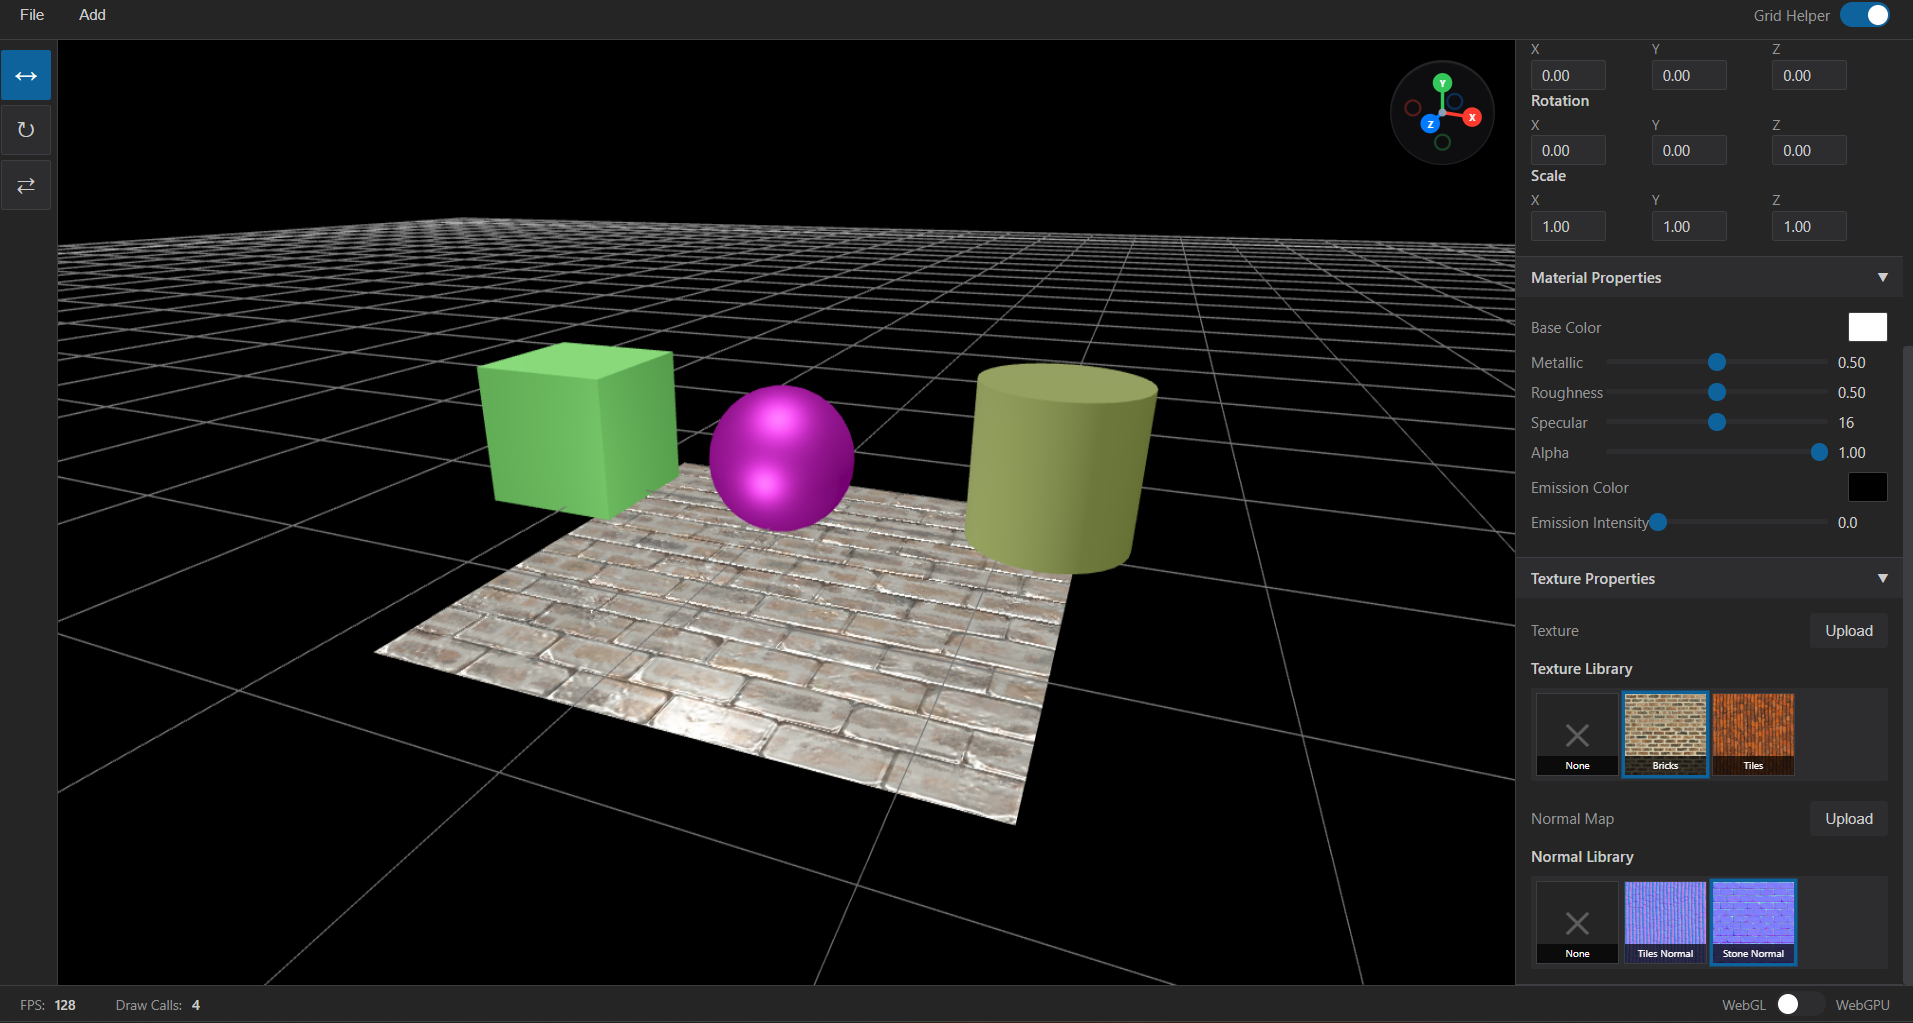
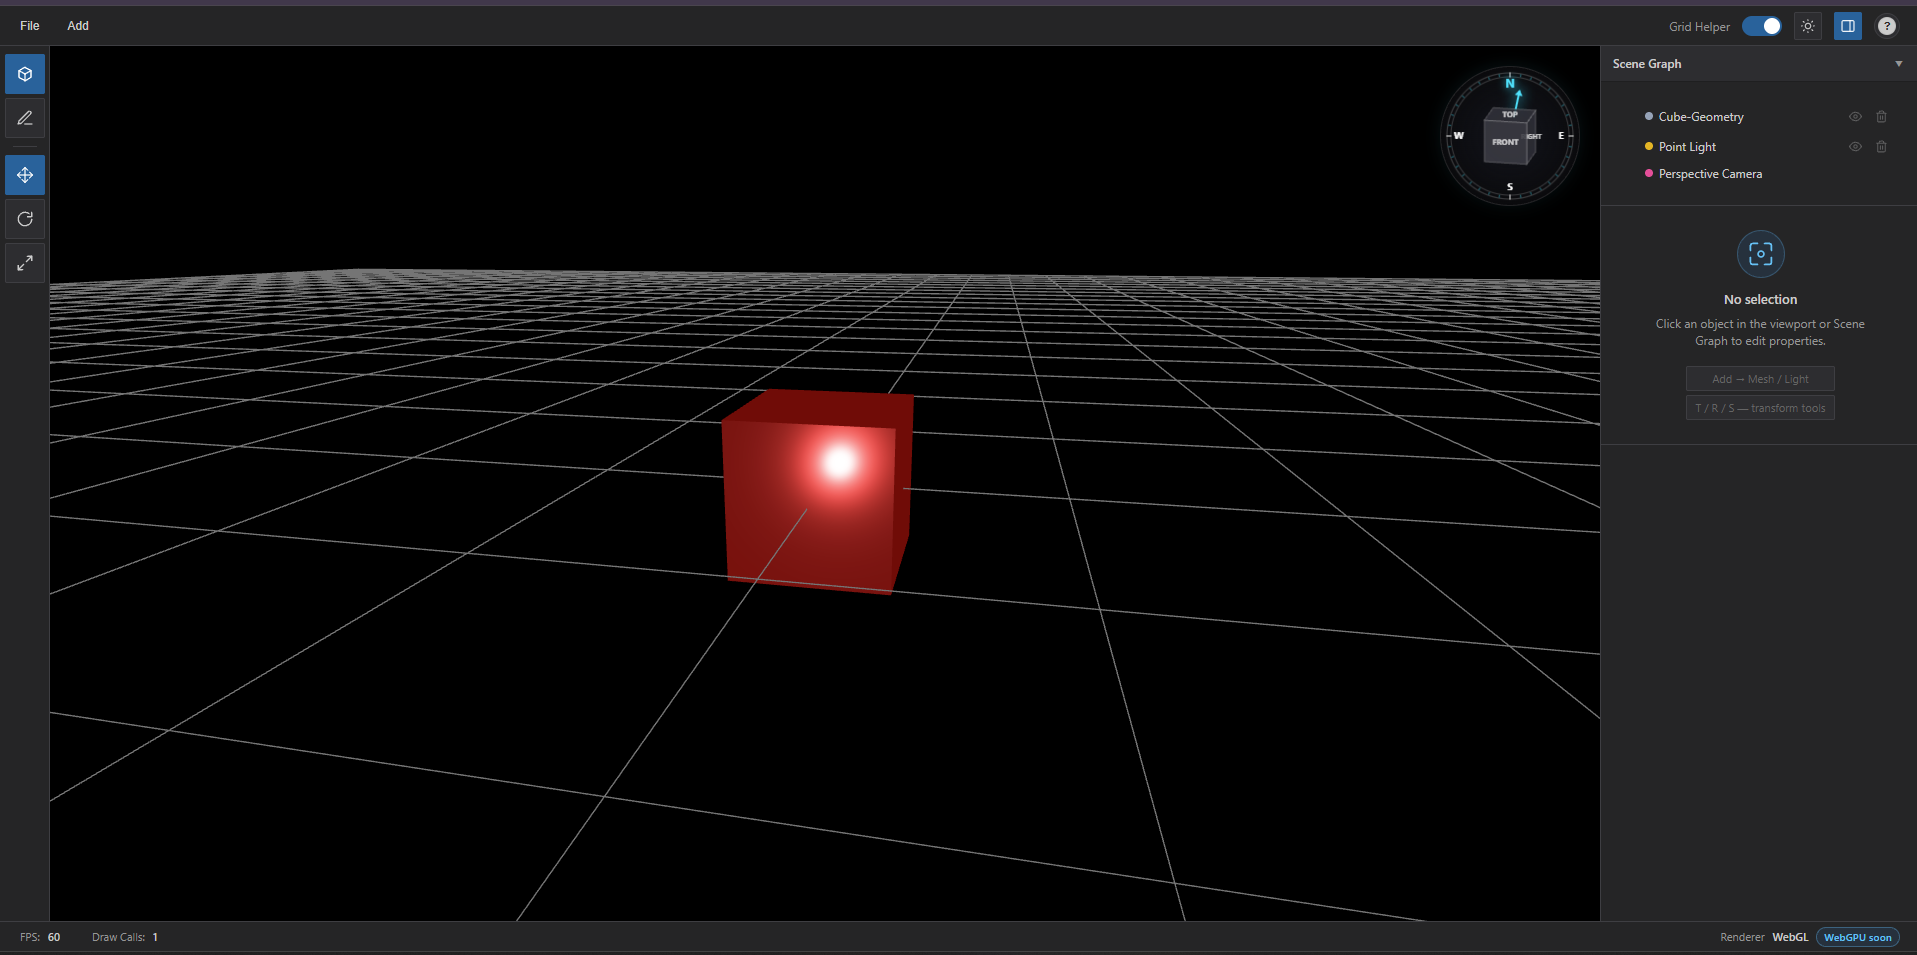
refactor: update README for clarity, enhance IndexedDB scene handling, and improve default light initialization in 3DEditor

diff --git a/engine/CoreUtilities/IndexedDBSceneStorage.ts b/engine/CoreUtilities/IndexedDBSceneStorage.ts
@@ -338,14 +338,16 @@ export class IndexedDBSceneStorage {
   public static async hasSavedScene(): Promise<boolean> {
     try {
       const data = await this.loadScene();
-      return !!(data && data.nodes && data.nodes.length > 0);
+      // Empty scene (nodes: []) is still a valid saved session
+      return !!(data && Array.isArray(data.nodes));
     } catch {
       return false;
     }
   }
 
   /**
-   * Reconstruct scene objects and hierarchy from serialized state
+   * Reconstruct scene objects and hierarchy from serialized state.
+   * Empty `nodes` clears user content and keeps grid — used after delete-all + refresh.
    */
   public static async restoreScene(
     savedData: SerializedScene,
@@ -355,7 +357,7 @@ export class IndexedDBSceneStorage {
     materialFactory: PBRMaterialProperties,
     camera?: CameraController
   ): Promise<void> {
-    if (!savedData || !savedData.nodes || savedData.nodes.length === 0) return;
+    if (!savedData || !Array.isArray(savedData.nodes)) return;
 
     // 1. Clear existing user nodes and lights (keep Grid)
     const gridNodes = (scene.nodes || []).filter((n) => n.type === "Grid-Geometry");

diff --git a/engine/CoreUtilities/SessionPersistenceController.ts b/engine/CoreUtilities/SessionPersistenceController.ts
@@ -68,12 +68,15 @@ export class SessionPersistenceController {
     const { scene, camera, events, createdObjects, gl, material } = this.deps;
     try {
       const saved = await IndexedDBSceneStorage.loadScene();
-      if (!saved || !saved.nodes || saved.nodes.length === 0) {
+      // Any saved record counts (including empty nodes[] after user deleted everything).
+      // Only "no autosave key" should fall through to default starter content.
+      if (!saved || !Array.isArray(saved.nodes)) {
         return false;
       }
 
       console.log(
-        `[IndexedDB] Restoring saved session from ${new Date(saved.timestamp).toLocaleTimeString()}...`
+        `[IndexedDB] Restoring saved session from ${new Date(saved.timestamp).toLocaleTimeString()}...` +
+          (saved.nodes.length === 0 ? " (empty scene)" : "")
       );
       await IndexedDBSceneStorage.restoreScene(
         saved,

diff --git a/Showcase/3DEditor/EditorApplication.ts b/Showcase/3DEditor/EditorApplication.ts
@@ -136,6 +136,7 @@ function addDefaultStarterContent(): void {
   defaultLight.radius = 2.0;
   defaultLight.color = [1, 1, 1];
   defaultLight.intensity = 1.0;
+  defaultLight.updateLocalMatrix();
   scene.add(defaultLight);
 
   lightInstances.set(masterLight.uuid, { light: masterLight, type: "point", index: 0 });
@@ -1284,6 +1285,7 @@ document.getElementById("new-scene-btn")?.addEventListener("click", () => {
     defaultLight.radius = 2.0;
     defaultLight.color = [1, 1, 1];
     defaultLight.intensity = 1.0;
+    defaultLight.updateLocalMatrix();
     scene.add(defaultLight);
 
     // Reset master light to default

diff --git a/README.md b/README.md
@@ -4,68 +4,101 @@
 [![WebGL](https://img.shields.io/badge/WebGL-990000?style=for-the-badge&logo=webgl&logoColor=white)](https://developer.mozilla.org/en-US/docs/Web/API/WebGL_API)
 [![License: ISC](https://img.shields.io/badge/License-ISC-blue.svg?style=for-the-badge)](https://opensource.org/licenses/ISC)
 
- [Badges] 
 ![3D Editor Interface](./images/image.png)
 
-### Highlights
+Browser-based **3D graphics engine** and **visual editor**, built from scratch in **TypeScript** with **raw WebGL** (no Three.js / Babylon).
 
-- Scene Graph
-- Physically Based Rendering (PBR)
-- GLTF / GLB Import & Export
-- Transform Gizmos
-- WebGL Rendering Pipeline
-- TypeScript
-- WebGPU (In Progress)
-
-## Introduction 
-
-A browser-based 3D Graphics Engine and visual editor built from scratch using TypeScript and raw WebGL, without relying on high-level rendering frameworks.
-
-The project focuses on graphics engine architecture, rendering pipelines, shader programming, scene graph management, physically based rendering (PBR), asset pipelines, and interactive editing tools while providing a deeper understanding of modern real-time rendering.
-
-## Disclaimer
-
-This is a personal graphics programming project developed independently for learning and experimentation. It does not contain proprietary code, assets, or confidential information from any employer.
-
-## Live demo [varatha3deditor.vercel.app](https://varatha3deditor.vercel.app/)
+**Live demo:** [varatha3deditor.vercel.app](https://varatha3deditor.vercel.app/)
 
 ---
 
-## Core Features
+## What this project is
 
-![Core Rendering Features - WebGL Materials & Textures](./images/image1.png)
+Learning-focused graphics engine work: rendering pipeline, GLSL shaders, PBR materials, scene graph hierarchy, GLTF I/O, and an interactive editor on top.
 
-- Custom WebGL rendering pipeline
-- Physically Based Rendering (PBR)
-- GLSL shader system
-- Scene Graph architecture
-- Parent-child transform hierarchy
+It is a **personal / independent** project for learning and experimentation — not employer or proprietary code.
+
+---
+
+## Highlights
+
+| Area | What you get |
+|------|----------------|
+| Rendering | Custom WebGL pipeline, GLSL shaders, PBR |
+| Scene | Parent–child hierarchy, world transforms, Empty groups |
+| Assets | GLTF / GLB import & export (incl. zip folders) |
+| Editing | Translate / Rotate / Scale gizmos, materials, lights |
+| Viewport | Orbit ViewCube, grid helper, FPS / draw-call stats |
+| Session | IndexedDB autosave (survives refresh; empty scene stays empty) |
+
+WebGPU is **planned** (status chip in the editor says “WebGPU soon”) — the editor runs on **WebGL** today.
+
+---
+
+## Engine features
+
+![Core Rendering Features](./images/image1.png)
+
+- Custom WebGL render loop and shader library
+- Physically Based Rendering (unified light path)
+- Point / spot / directional lights (hierarchy-aware world space)
+- Scene graph with cycle-safe, world-preserving reparent
 - Frustum culling
 - GLTF / GLB import & export
-- Material and lighting system
-- Interactive visual editor
-- Transform Gizmos (Translate / Rotate / Scale)
-- Interactive SVG View Helper (Camera Orientation & Axis Indicator)
-- Real-time rendering statistics (FPS & Draw Calls)
+- Geometry primitives (box, sphere, plane, cone, cylinder)
+- Transform gizmos and viewport picking
 
 ---
 
-## Editor Features  
+## Editor features
 
-The integrated editor provides tools for interacting with the rendering engine in real time.
+![Interactive Visual Editor](./images/image2.png)
 
-![Interactive Visual Editor - 3D Models & Scene Tree Controls](./images/image2.png)
+- **Scene Graph** — select, show/hide, delete, drag to parent, keyboard ↑↓ / ←→
+- **Inspector** — transforms, materials, textures / normal maps, light props
+- **Add menu** — Empty, meshes, lights, camera projection
+- **ViewCube** — face / orbit orientation control
+- **Light / dark theme** (saved preference)
+- **Collapsible panels** + responsive inspector (`I` to toggle)
+- **Toasts** for import / export / actions
+- **Keyboard shortcuts** — press **`?`** in the top bar
+- Autosave to IndexedDB (meshes restore first; textures fill in async)
 
-- Scene hierarchy panel
-- Property inspector
-- Material editor
-- Light management
-- Transform gizmos
-- Interactive SVG View Helper (viewport orientation & axis alignment)
-- GLTF / GLB import & export
-- Texture & normal map management
-- FPS counter
-- Draw call statistics
+---
+
+## Useful shortcuts
+
+| Action | Keys |
+|--------|------|
+| File / Add menu | `Shift+F` / `Shift+A` |
+| Translate / Rotate / Scale | `T` / `R` / `S` |
+| Object / Edit mode | `O` / `E` |
+| Focus selection | `F` |
+| Toggle inspector | `I` |
+| Undo / Redo | `Ctrl+Z` / `Ctrl+Y` |
+| Copy / Paste / Duplicate | `Ctrl+C` / `Ctrl+V` / `Ctrl+D` |
+| Orbit / Pan / Zoom | LMB drag (empty) / MMB or RMB / Scroll |
+
+Full list: click **`?`** in the editor.
+
+---
+
+## Getting started
+
+**Requirements:** Node.js 16+, npm
+
+```bash
+git clone https://github.com/Varatharajan1808/Vara3D-Graphics-Engine.git
+cd Vara3D-Graphics-Engine
+npm install
+npm run dev
+```
+
+Open the URL printed by webpack-dev-server (port is chosen automatically).
+
+```bash
+npm run build    # production bundle → dist/
+```
 
 ---
 
@@ -73,117 +106,72 @@ The integrated editor provides tools for interacting with the rendering engine i
 
 ```
 ├── engine/
-│   ├── Renderer/    # WebGL context, shader compilation, GLSL shaders
-│   ├── MaterialSystem/       # PBR material definitions
-│   ├── LightingEngine/       # Light types and management
-│   ├── CameraSystem/         # Perspective & orthographic cameras, orbit controls
-│   ├── SceneGraph/           # Node hierarchy and transforms
-│   ├── AssetImporter/        # GLTF/GLB loader and exporter
-│   ├── EventManager/         # Input handling
-│   ├── MathLibrary/          # Vec3, Mat4, quaternions — the usual
-│   ├── GeometryPrimitives/   # Box, sphere, plane, etc.
-│   └── UserInterface/        # Editor panels and controls
+│   ├── Renderer/           # WebGL engine, shaders, buffers
+│   ├── MaterialSystem/     # PBR materials
+│   ├── LightingEngine/     # Light node types
+│   ├── CameraSystem/       # Perspective / orthographic + orbit
+│   ├── SceneGraph/         # Nodes, hierarchy, world matrices
+│   ├── MeshRenderer/       # Renderable meshes
+│   ├── AssetImporter/      # GLTF / GLB load & export
+│   ├── GeometryPrimitives/ # Built-in shapes
+│   ├── EventManager/       # Input, gizmo, picking
+│   ├── CoreUtilities/      # Commands, clipboard, autosave, factory…
+│   ├── UserInterface/      # Editor UI, ViewCube, styles
+│   ├── MathLibrary/        # gl-matrix helpers
+│   └── Textures/          # Sample textures
 ├── Showcase/
-│   └── 3DEditor/             # The editor app
-└── dist/                     # Build output
+│   └── 3DEditor/           # Editor entry (index.html + EditorApplication)
+├── images/                 # README screenshots
+└── dist/                   # Build output
 ```
 
 ---
 
-## Tech used
+## Using the engine
 
-- **TypeScript** (strict mode)
-- **WebGL** — direct API calls, no abstractions
-- **GLSL** for shaders
-- **WebGPU** (In Progress)
-- **Webpack 5** for bundling
-- **Vercel** for hosting the demo
+The full editor wires WebGL, scene, lights, shaders, and UI in:
 
----
+`Showcase/3DEditor/EditorApplication.ts`
 
-## Getting started
-
-## Requirements
-
-- Node.js v16+
-- npm
-
-## Installation
-```bash
-git clone https://github.com/Varatharajan1808/Vara3D-Graphics-Engine.git
-
-cd Vara3D-Graphics-Engine
-
-npm install
-
-npm run dev
-```
-
-Open
-
-```text
-http://localhost:8081
-```
-
-Build production version
-
-```bash
-npm run build
-```
-
----
-
-## Quick example
-
-If you want to use the engine programmatically instead of the editor:
+Core render call shape:
 
 ```typescript
-import { WebGLRenderEngine } from './engine/Renderer/Webgl/WebGLRenderEngine';
-import { SceneHierarchyManager } from './engine/SceneGraph/SceneHierarchyManager';
-import { CameraController } from './engine/CameraSystem/CameraController';
-import { RenderableMeshObject } from './engine/MeshRenderer/RenderableMeshObject';
-
-const canvas = document.getElementById('Mycanvas') as HTMLCanvasElement;
-const webgl = new WebGLRenderEngine(canvas);
-const scene = new SceneHierarchyManager();
-
-const camera = new CameraController();
-camera.PerspectiveCamera(45, canvas.width / canvas.height, 0.1, 1000);
-camera.OrbitCamera();
-
-const box = new RenderableMeshObject(new BoxGeometryBuilder().CubeData());
-scene.add(box);
-
-const animate = () => {
-  webgl.render(scene, camera);
-  requestAnimationFrame(animate);
-};
-animate();
+webgl.Render(program, camera, scene);
 ```
+
+For day-to-day use, run the editor with `npm run dev` rather than a minimal snippet — lighting, materials, and autosave are all set up there.
 
 ---
 
-## RoadMap
+## Tech stack
+
+- **TypeScript**
+- **WebGL** + **GLSL** (no high-level 3D framework)
+- **Webpack 5** (dev server + production build)
+- **fflate** (zip handling for imports)
+- **Vercel** (demo hosting)
+
+---
+
+## Roadmap
 
 - WebGPU backend
-- Shadow Mapping
-- Skeletal Animation
-- Post Processing
-- Physics Integration
-- Advanced Material Models
-- Compute Shader Support
+- Shadow mapping
+- Skeletal animation
+- Post-processing
+- Physics integration
+- Richer materials / compute paths
 
 ---
 
 ## Contact
 
-If you have questions, suggestions, or feedback, feel free to open an issue or start a discussion on GitHub.
+Questions or feedback: open an issue or discussion on GitHub.
 
-GitHub:
-https://github.com/Varatharajan1808
+**GitHub:** [github.com/Varatharajan1808](https://github.com/Varatharajan1808)
 
 ---
 
-Built with ❤ by **Varatharajan**
+Built with care by **Varatharajan**
 
-**TypeScript • WebGL • Graphics Programming • Rendering Engine Development**
+**TypeScript · WebGL · Graphics programming · Real-time rendering**
